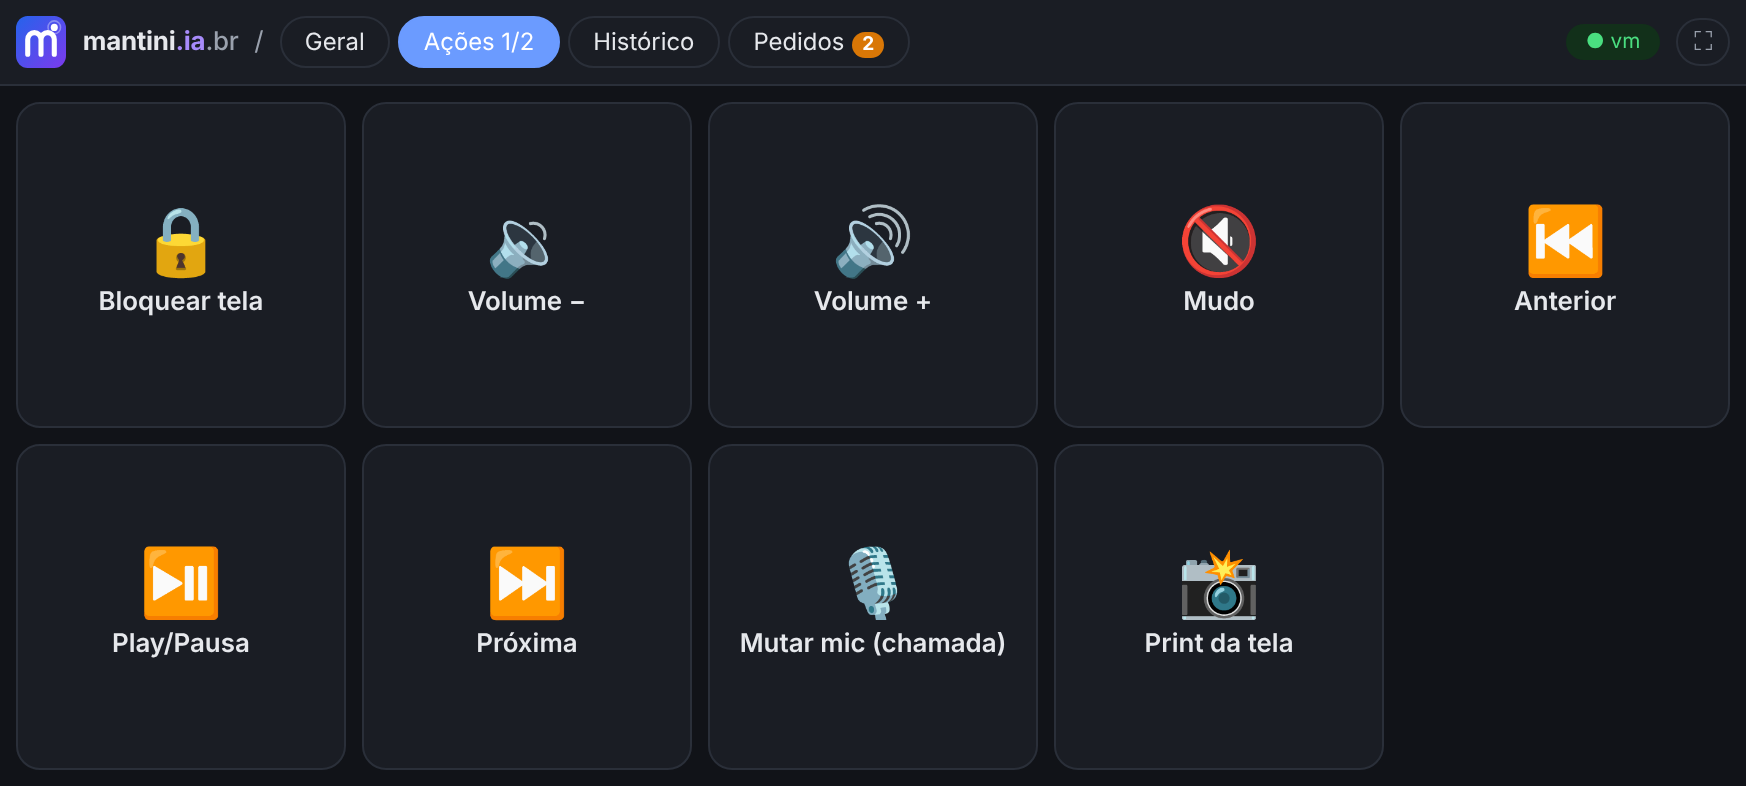
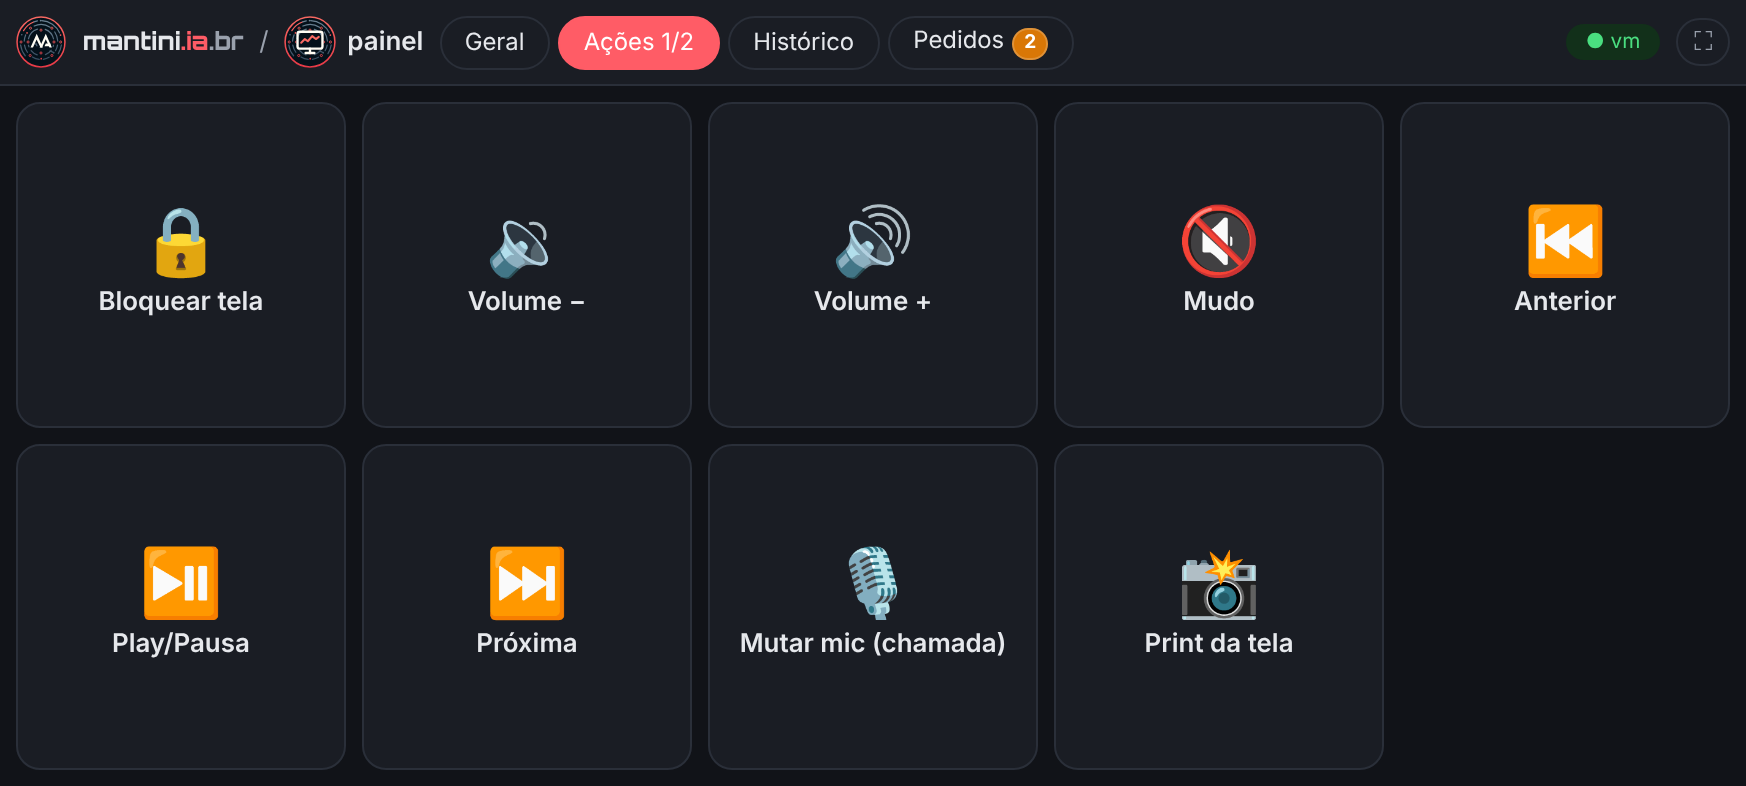
Painel: identidade atual do mantini.ia.br (branch main)
- Destaque vermelho (#e63946 / #ff5c66), Orbitron na marca e no relógio
- Emblema novo do mantini.ia.br e ícone do sistema "painel" no mesmo padrão
- Selos e cores iguais ao assets/base.css atual

Claude-Session: https://claude.ai/code/session_01L672HWjCeH8HFHZbjvocZq

Changed region(s): [[0.0, 0.0, 0.6186, 0.0916]]

diff --git a/painel/static/index.html b/painel/static/index.html
@@ -8,27 +8,30 @@
 <meta name="mobile-web-app-capable" content="yes">
 <title>painel — mantini.ia.br</title>
 <link rel="manifest" href="/static/manifest.json">
-<link rel="icon" href="/static/mantini-icone.svg">
+<link rel="icon" href="/static/painel.svg">
+<link rel="icon" type="image/png" sizes="32x32" href="/static/mantini-favicon-32.png">
 <link rel="apple-touch-icon" href="/static/mantini-icone-512.png">
 <style>
+  /* Orbitron (SIL Open Font License 1.1 — ver static/fonts/OFL-Orbitron.txt) */
+  @font-face { font-family: 'Orbitron'; font-weight: 800; font-display: swap; src: url('/static/fonts/orbitron-800.woff2') format('woff2'); }
   /* Visual do mantini.ia.br (assets/base.css), adaptado para o celular DEITADO:
      tudo cabe na tela, sem rolar. O que não couber vira outra tela — arraste para o lado. */
   :root {
     --bg: #f5f6f8; --card: #ffffff; --text: #1d2129; --muted: #6b7280; --line: #e5e7eb;
-    --accent: #2563eb; --accent-soft: #e8efff; --roxo: #7c3aed;
-    --ok: #16a34a; --warn: #d97706; --danger: #dc2626;
+    --accent: #e63946; --accent-soft: #fdecee; --cinza: #4c6072;
+    --ok: #16a34a; --warn: #d97706; --danger: #b91c1c;
     --ok-soft: #dcfce7; --ok-txt: #166534; --warn-soft: #fef3c7; --warn-txt: #92400e; --danger-soft: #fee2e2;
     --shadow: 0 1px 2px rgba(0,0,0,.04), 0 2px 8px rgba(0,0,0,.04);
-    --cpu: var(--accent); --ram: var(--roxo); --disco: #0891b2; --temp: var(--warn); --desce: #0891b2; --sobe: #db2777;
+    --cpu: var(--accent); --ram: var(--cinza); --disco: #0891b2; --temp: var(--warn); --desce: #0891b2; --sobe: var(--accent);
     --gap: clamp(6px, 2vh, 14px); --raio: 12px;
     --pad-x: max(var(--gap), env(safe-area-inset-left)); --pad-x2: max(var(--gap), env(safe-area-inset-right));
     color-scheme: light dark;
   }
   @media (prefers-color-scheme: dark) {
     :root { --bg: #111318; --card: #1a1d24; --text: #e6e8ec; --muted: #9aa1ad; --line: #2a2f39;
-      --accent: #6b9bff; --accent-soft: #1f2a44; --roxo: #a78bfa; --shadow: none;
+      --accent: #ff5c66; --accent-soft: #3a1c20; --danger: #f87171; --cinza: #8fa6b8; --shadow: none;
       --ok-soft: #12301a; --ok-txt: #4ade80; --warn-soft: #3a2f10; --warn-txt: #fbbf24; --danger-soft: #3a1517;
-      --disco: #22d3ee; --desce: #22d3ee; --sobe: #f472b6; }
+      --disco: #22d3ee; --desce: #22d3ee; }
   }
   * { box-sizing: border-box; }
   html, body { margin: 0; height: 100%; overflow: hidden; background: var(--bg); color: var(--text);
@@ -45,18 +48,19 @@
   .topbar { flex: none; display: flex; align-items: center; gap: clamp(6px, 2vh, 12px);
     height: clamp(36px, 11vh, 54px); padding: 0 var(--pad-x2) 0 var(--pad-x);
     background: var(--card); border-bottom: 1px solid var(--line); }
-  .brand { display: inline-flex; align-items: center; gap: 8px; font-weight: 700; letter-spacing: -.01em; white-space: nowrap; }
-  .brand img { width: clamp(20px, 6.5vh, 28px); height: clamp(20px, 6.5vh, 28px); }
-  .brand .ia { color: var(--roxo); } .brand .tld { color: var(--muted); font-weight: 500; }
+  .brand { display: inline-flex; align-items: center; gap: 8px; font-family: 'Orbitron', system-ui, sans-serif; font-weight: 800; white-space: nowrap; font-size: .95em; }
+  .brand img, .sys-name img { width: clamp(20px, 6.5vh, 28px); height: clamp(20px, 6.5vh, 28px); flex: none; }
+  .brand .ia { color: var(--accent); } .brand .tld { color: var(--muted); font-weight: 500; }
+  .sys-name { display: inline-flex; align-items: center; gap: 6px; font-weight: 600; white-space: nowrap; }
   .sep { color: var(--muted); }
   .tabs { display: flex; gap: 4px; overflow: hidden; }
   .tabs button { padding: clamp(3px, 1vh, 6px) clamp(10px, 3vh, 16px); white-space: nowrap; font-size: .92em; }
   .tabs button.active { background: var(--accent); color: #fff; border-color: var(--accent); }
   .tabs .cont { display: inline-block; min-width: 1.4em; margin-left: 4px; padding: 0 5px; border-radius: 999px;
-    background: var(--warn); color: #fff; font-size: .8em; font-weight: 700; }
+    background: var(--warn); color: #fff; border: 1px solid #fff3; font-size: .8em; font-weight: 700; }
   .spacer { flex: 1; }
   .badge { display: inline-flex; align-items: center; gap: 6px; padding: 2px 10px; border-radius: 999px; font-size: .8em;
-    background: var(--accent-soft); color: var(--accent); white-space: nowrap; max-width: 30vw; overflow: hidden; text-overflow: ellipsis; }
+    background: var(--line); color: var(--muted); white-space: nowrap; max-width: 30vw; overflow: hidden; text-overflow: ellipsis; }
   .badge.on { background: var(--ok-soft); color: var(--ok-txt); }
   .badge.pause { background: var(--warn-soft); color: var(--warn-txt); }
   .badge.off { background: var(--danger-soft); color: var(--danger); }
@@ -78,7 +82,8 @@
 
   /* ---- Tela Geral ---- */
   #tGeral { grid-template-columns: 1fr 1.7fr 1fr; }
-  .relogio { font: 300 clamp(28px, 15vh, 110px)/1 system-ui, sans-serif; letter-spacing: -.03em; font-variant-numeric: tabular-nums; }
+  .relogio { font: 800 clamp(24px, 13vh, 96px)/1 'Orbitron', system-ui, sans-serif; letter-spacing: .01em; }
+  .relogio .seg { color: var(--accent); animation: pisca 1s steps(1) infinite; } @keyframes pisca { 50% { opacity: .25; } }
   .data { color: var(--muted); margin-top: .4vh; }
   .pedidoMini { margin-top: auto; border-radius: var(--raio); padding: 1.6vh 1.8vh; border: 1px dashed var(--line); }
   .pedidoMini.tem { background: var(--warn-soft); border: 1px solid var(--warn); }
@@ -149,6 +154,7 @@
 <header class="topbar">
   <span class="brand"><img src="/static/mantini-icone.svg" alt=""><span>mantini<span class="ia">.ia</span><span class="tld">.br</span></span></span>
   <span class="sep">/</span>
+  <span class="sys-name"><img src="/static/painel.svg" alt="">painel</span>
   <nav class="tabs" id="abas"></nav>
   <span class="spacer"></span>
   <span class="badge" id="status">conectando…</span>
@@ -274,7 +280,8 @@
   // ---------------- relógio ----------------
   function relogio() {
     const d = new Date();
-    $("hora").textContent = d.toLocaleTimeString("pt-BR", { hour: "2-digit", minute: "2-digit" });
+    const [hh, mm] = d.toLocaleTimeString("pt-BR", { hour: "2-digit", minute: "2-digit" }).split(":");
+    $("hora").innerHTML = `${hh}<span class="seg">:</span>${mm}`;
     $("data").textContent = d.toLocaleDateString("pt-BR", { weekday: "long", day: "numeric", month: "long" });
   }
   relogio(); setInterval(relogio, 1000);
